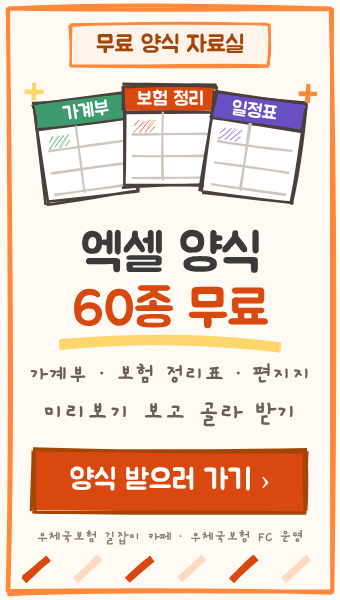
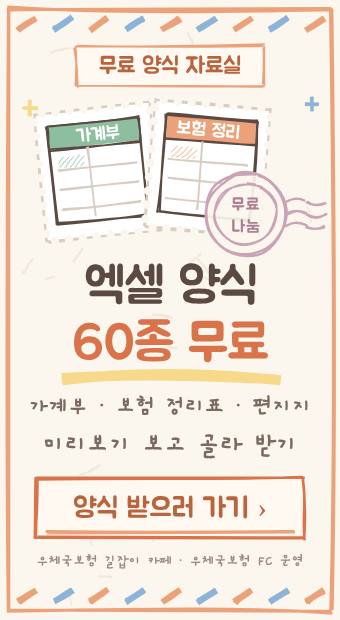
cafe: 블로그 위젯을 무료 엑셀 양식 하나로 — 우표·소인·항공우편 줄무늬로 은은한 우체국 감성
Claude-Session: https://claude.ai/code/session_01NDkHExbD7sg1GRU5d1kqZi

diff --git a/cafe/scripts/blog-widget.html b/cafe/scripts/blog-widget.html
@@ -1,99 +1,118 @@
 <!doctype html>
 <html lang="ko"><head><meta charset="utf-8">
-<!-- 네이버 블로그 사이드바 위젯 이미지 틀(가로 170px 표시 · 2배 크기 340px로 그림) — make-blog-widget.py 가 render(kind) 를 부릅니다.
-     선은 rough.js(MIT), 글씨는 Jua·Gaegu(OFL). 귀여움은 캐릭터·하트 대신 손그림 선·빗금·파스텔 색감으로만. -->
+<!-- 네이버 블로그 사이드바 위젯 — 무료 엑셀 양식(가로 170px 표시 · 2배 크기 340px로 그림). make-blog-widget.py 가 render() 를 부릅니다.
+     우체국 감성은 우표 톱니·소인·항공우편 줄무늬로 은은하게, 귀여움은 캐릭터·하트 대신 손그림 선·빗금·한지 결·톤 다운 파스텔로만.
+     선은 rough.js(MIT), 글씨는 Jua·Gaegu(OFL). 우체국 로고·상징은 쓰지 않습니다. -->
 <style>
 @font-face{font-family:Jua;src:url(../assets/fonts/jua-korean-400-normal.woff2)}
 @font-face{font-family:Gaegu;src:url(../assets/fonts/gaegu-korean-700-normal.woff2)}
 *{margin:0;padding:0;box-sizing:border-box}
-body{width:340px;overflow:hidden;background:#FFFBF4}
+body{width:340px;overflow:hidden;background:#FBF6EE}
 #c{position:absolute;left:0;top:0}
 .t{position:absolute;white-space:nowrap;transform:translateX(-50%)}
-.chip{font-family:Jua;font-size:24px;color:#A34506}
-.h1{font-family:Jua;font-size:52px;color:#3A3A3A;letter-spacing:-1px;line-height:1}
-.h2{font-family:Jua;font-size:52px;color:#D9480F;letter-spacing:-1px;line-height:1}
-.g{font-family:Gaegu;font-size:27px;color:#6B5E57}
-.big{font-family:Jua;font-size:40px;color:#D9480F;line-height:1}
-.mid{font-family:Jua;font-size:30px;color:#3A3A3A}
-.btn{font-family:Jua;font-size:29px;color:#fff}
-.tiny{font-family:Gaegu;font-size:21px;color:#8A7D75}
-.lab{font-family:Jua;font-size:19px;color:#fff}
-.cell{font-family:Gaegu;font-size:19px;color:#4A3F3A}
+.chip{font-family:Jua;font-size:23px;color:#B8653F}
+.h1{font-family:Jua;font-size:50px;color:#5A4A42;letter-spacing:-1px;line-height:1}
+.h2{font-family:Jua;font-size:52px;color:#D9734A;letter-spacing:-1px;line-height:1}
+.g{font-family:Gaegu;font-size:27px;color:#7A6A61}
+.btn{font-family:Jua;font-size:28px;color:#B8653F}
+.tiny{font-family:Gaegu;font-size:21px;color:#9A8B82}
+.lab{font-family:Jua;font-size:18px;color:#fff}
+.pm{font-family:Jua;font-size:17px;color:#B07F95;letter-spacing:1px}
 </style></head>
-<body><svg id="c" width="340" height="700" xmlns="http://www.w3.org/2000/svg"></svg>
+<body><svg id="c" width="340" height="620" xmlns="http://www.w3.org/2000/svg"></svg>
 <script src="../assets/vendor/rough.js"></script>
 <script>
 const svg = document.getElementById("c"), rc = rough.svg(svg);
-const P = { ink: "#4A3F3A", orange: "#FF883A", red: "#D9480F", peach: "#FFDAC1", cream: "#FFF4EC", yellow: "#FFD66B", green: "#3E9B6E", blue: "#2F86C9", purple: "#6A4FC4" };
+// 톤 다운 우체국 주황 + 한지 크림 + 연한 파스텔
+const C = { ink: "#5A4A42", line: "#D8CDC2", apricot: "#EBA27A", orange: "#D9734A", deep: "#B8653F", sage: "#8DBF9F", sky: "#8DB3D6", plum: "#C9A3B6", paper: "#FBF6EE", cream: "#FFF9F1", butter: "#F6D98B" };
 const add = (n) => (svg.appendChild(n), n);
 const T = (cls, s, x, y) => { const d = document.createElement("div"); d.className = "t " + cls; d.textContent = s; d.style.left = x + "px"; d.style.top = y + "px"; document.body.appendChild(d); return d; };
 const fit = (el, max) => { let f = parseFloat(getComputedStyle(el).fontSize); while (el.getBoundingClientRect().width > max && f > 12) { f -= 1; el.style.fontSize = f + "px"; } };
-const sparkle = (x, y, r, c) => { add(rc.line(x - r, y, x + r, y, { stroke: c, strokeWidth: 4, roughness: 0.6 })); add(rc.line(x, y - r, x, y + r, { stroke: c, strokeWidth: 4, roughness: 0.6 })); };
+const sparkle = (x, y, r, c) => { add(rc.line(x - r, y, x + r, y, { stroke: c, strokeWidth: 3.5, roughness: 0.6 })); add(rc.line(x, y - r, x, y + r, { stroke: c, strokeWidth: 3.5, roughness: 0.6 })); };
 
-// 손그림 양식 카드 한 장(엑셀 표 모양) — 색 띠 + 줄 + 이름표
-function sheetCard(x, y, w, h, color, label, rot) {
+// 한지 결: 아주 옅은 짧은 섬유 선
+function hanji(H) {
+  let s = 7;
+  const rnd = () => ((s = (s * 9301 + 49297) % 233280) / 233280);
+  for (let i = 0; i < 26; i++) {
+    const x = 18 + rnd() * 304, y = 18 + rnd() * (H - 36), a = rnd() * Math.PI, l = 8 + rnd() * 14;
+    add(rc.line(x, y, x + Math.cos(a) * l, y + Math.sin(a) * l, { stroke: "#F1E8DC", strokeWidth: 1.4, roughness: 1.2 }));
+  }
+}
+
+// 우표: 톱니 가장자리(반원 홈) + 안쪽 양식 카드
+function stamp(x, y, w, h, rot) {
   const g = document.createElementNS("http://www.w3.org/2000/svg", "g");
   g.setAttribute("transform", `rotate(${rot} ${x + w / 2} ${y + h / 2})`);
   const put = (n) => g.appendChild(n);
-  put(rc.rectangle(x, y, w, h, { fill: "#fff", fillStyle: "solid", stroke: P.ink, strokeWidth: 2.5, roughness: 1.2 }));
-  put(rc.rectangle(x, y, w, 26, { fill: color, fillStyle: "solid", stroke: P.ink, strokeWidth: 2, roughness: 0.9 }));
-  for (let k = 1; k <= 3; k++) put(rc.line(x + 8, y + 26 + k * 22, x + w - 8, y + 26 + k * 22, { stroke: "#CFC6BD", strokeWidth: 2, roughness: 0.6 }));
-  put(rc.line(x + w * 0.42, y + 26, x + w * 0.42, y + h - 6, { stroke: "#CFC6BD", strokeWidth: 2, roughness: 0.6 }));
-  put(rc.rectangle(x + 10, y + 34, w * 0.42 - 18, 12, { fill: color, fillStyle: "hachure", hachureGap: 4, stroke: "none" }));
+  put(rc.rectangle(x, y, w, h, { fill: "#fff", fillStyle: "solid", stroke: C.line, strokeWidth: 2, roughness: 0.8 }));
   svg.appendChild(g);
-  const l = T("lab", label, x + w / 2, y + 2); l.style.transform = `translateX(-50%) rotate(${rot}deg)`; l.style.transformOrigin = "50% 50%";
+  // 톱니(바탕색 작은 원)
+  const holes = document.createElementNS("http://www.w3.org/2000/svg", "g");
+  holes.setAttribute("transform", g.getAttribute("transform"));
+  const hole = (cx, cy) => { const c = document.createElementNS("http://www.w3.org/2000/svg", "circle"); c.setAttribute("cx", cx); c.setAttribute("cy", cy); c.setAttribute("r", 4.2); c.setAttribute("fill", C.paper); holes.appendChild(c); };
+  for (let i = 8; i < w; i += 14) { hole(x + i, y); hole(x + i, y + h); }
+  for (let i = 8; i < h; i += 14) { hole(x, y + i); hole(x + w, y + i); }
+  svg.appendChild(holes);
+  return g;
 }
 
-function frame(H) {
+// 우표 안의 손그림 엑셀 카드(색 띠 + 줄 + 이름표)
+function sheetIn(g, x, y, w, h, color) {
+  const put = (n) => g.appendChild(n);
+  put(rc.rectangle(x, y, w, h, { fill: "#fff", fillStyle: "solid", stroke: C.ink, strokeWidth: 2, roughness: 1.1 }));
+  put(rc.rectangle(x, y, w, 24, { fill: color, fillStyle: "solid", stroke: C.ink, strokeWidth: 1.8, roughness: 0.8 }));
+  for (let k = 1; k <= 3; k++) put(rc.line(x + 6, y + 24 + k * 20, x + w - 6, y + 24 + k * 20, { stroke: C.line, strokeWidth: 1.8, roughness: 0.6 }));
+  put(rc.line(x + w * 0.42, y + 24, x + w * 0.42, y + h - 5, { stroke: C.line, strokeWidth: 1.8, roughness: 0.6 }));
+  put(rc.rectangle(x + 8, y + 31, w * 0.42 - 14, 11, { fill: color, fillStyle: "hachure", hachureGap: 4, stroke: "none" }));
+}
+function label(s, cx, y, rot) { const l = T("lab", s, cx, y); l.style.transform = `translateX(-50%) rotate(${rot}deg)`; }
+
+// 소인: 두 겹 원 + 물결선(우체국 소인 느낌, 글자는 '무료 나눔')
+function postmark(cx, cy) {
+  add(rc.circle(cx, cy, 78, { fill: "rgba(251,246,238,0.92)", fillStyle: "solid", stroke: C.plum, strokeWidth: 2.5, roughness: 1.1 }));
+  add(rc.circle(cx, cy, 62, { stroke: C.plum, strokeWidth: 1.8, roughness: 1.1 }));
+  for (let k = 0; k < 3; k++) {
+    const y = cy - 12 + k * 12;
+    add(rc.path(`M${cx + 40} ${y} q10 -6 20 0 t20 0`, { stroke: C.plum, strokeWidth: 2.2, roughness: 0.7 }));
+  }
+  T("pm", "무료", cx, cy - 20); T("pm", "나눔", cx, cy + 2);
+}
+
+function render() {
+  const H = 620;
   svg.setAttribute("height", H); document.body.style.height = H + "px";
-  add(rc.rectangle(8, 8, 324, H - 16, { stroke: P.orange, strokeWidth: 4, roughness: 1.8 }));
-  for (let i = 0; i < 6; i++) { const x = 24 + i * 52; add(rc.line(x, H - 20, x + 24, H - 42, { stroke: i % 2 ? P.peach : P.red, strokeWidth: 7, roughness: 0.7 })); }
-}
-function chip(s, y) {
-  const c = T("chip", s, 170, y); const w = c.getBoundingClientRect().width;
-  add(rc.rectangle(170 - w / 2 - 16, y - 6, w + 32, 42, { fill: P.cream, fillStyle: "solid", stroke: P.orange, strokeWidth: 2.5 }));
+  hanji(H);
+  add(rc.rectangle(9, 9, 322, H - 18, { stroke: C.apricot, strokeWidth: 3, roughness: 1.6 }));
+  // 항공우편 줄무늬(은은하게) — 위·아래
+  for (let i = 0; i < 9; i++) {
+    const x = 18 + i * 36, col = i % 2 ? C.sky : C.apricot;
+    add(rc.line(x, 30, x + 18, 18, { stroke: col, strokeWidth: 6, roughness: 0.6 }));
+    add(rc.line(x, H - 18, x + 18, H - 30, { stroke: col, strokeWidth: 6, roughness: 0.6 }));
+  }
+  // 칩
+  const ch = T("chip", "무료 양식 자료실", 170, 52); const cw = ch.getBoundingClientRect().width;
+  add(rc.rectangle(170 - cw / 2 - 14, 46, cw + 28, 40, { fill: C.cream, fillStyle: "solid", stroke: C.apricot, strokeWidth: 2 }));
   svg.appendChild(svg.lastChild);
+  // 우표 두 장 + 소인
+  const s1 = stamp(40, 108, 116, 128, -6); sheetIn(s1, 52, 122, 92, 98, C.sage);
+  const s2 = stamp(150, 104, 116, 128, 5); sheetIn(s2, 162, 118, 92, 98, C.apricot);
+  label("가계부", 98, 124, -6); label("보험 정리", 208, 120, 5);
+  postmark(246, 214);
+  sparkle(30, 108, 8, C.butter); sparkle(312, 104, 7, C.sky);
+  // 제목
+  T("h1", "엑셀 양식", 170, 262);
+  const b = T("h2", "60종 무료", 170, 318);
+  const bw = b.getBoundingClientRect().width + 14;
+  add(rc.path(`M${170 - bw / 2} 378 Q170 370 ${170 + bw / 2} 380`, { stroke: C.butter, strokeWidth: 10, roughness: 1.3 }));
+  const g1 = T("g", "가계부 · 보험 정리표 · 편지지", 170, 392); fit(g1, 296);
+  T("g", "미리보기 보고 골라 받기", 170, 428);
+  // 단추(크림 바탕 + 살구 테두리)
+  add(rc.rectangle(36, 478, 268, 60, { fill: C.cream, fillStyle: "solid", stroke: C.orange, strokeWidth: 2.6, roughness: 1.3 }));
+  add(rc.line(46, 532, 294, 532, { stroke: C.apricot, strokeWidth: 3, roughness: 0.8 }));
+  T("btn", "양식 받으러 가기 ›", 170, 492);
+  const t = T("tiny", "우체국보험 길잡이 카페 · 우체국보험 FC 운영", 170, 552); fit(t, 292);
+  return true;
 }
-function button(s, y) {
-  add(rc.rectangle(34, y, 272, 62, { fill: P.red, fillStyle: "solid", stroke: "#A34506", strokeWidth: 3, roughness: 1.4 }));
-  T("btn", s, 170, y + 13);
-}
-function under(y, w) { add(rc.path(`M${170 - w / 2} ${y} Q170 ${y - 8} ${170 + w / 2} ${y + 2}`, { stroke: P.yellow, strokeWidth: 10, roughness: 1.4 })); }
-
-// A. 카페 브랜드 + 무료 양식 미끼(추천) — 340×700 → 블로그에 170×350
-function guide() {
-  frame(700);
-  chip("네이버 카페", 30);
-  under(202, 200);
-  T("h1", "우체국보험", 170, 92); T("h2", "길잡이", 170, 146);
-  T("g", "보험 공부 · 청구 방법 · 내 보험 관리", 170, 214).id = "g1"; fit(document.getElementById("g1"), 300);
-  sheetCard(40, 262, 92, 100, P.green, "가계부", -8);
-  sheetCard(124, 250, 92, 100, P.red, "보험 정리", 0);
-  sheetCard(208, 262, 92, 100, P.blue, "편지지", 8);
-  sparkle(36, 250, 9, P.yellow); sparkle(306, 252, 9, P.orange);
-  T("mid", "무료 엑셀 양식", 170, 392);
-  const b = T("big", "60종 나눔", 170, 432);
-  under(482, b.getBoundingClientRect().width + 20);
-  T("g", "받아서 바로 쓰는 살림·보험 양식", 170, 500).id = "g2"; fit(document.getElementById("g2"), 300);
-  button("카페 구경 가기 ›", 552);
-  T("tiny", "우체국보험 FC가 운영하는 카페예요", 170, 628).id = "g3"; fit(document.getElementById("g3"), 296);
-}
-
-// B. 무료 엑셀 양식 전용 — 340×600 → 블로그에 170×300
-function forms() {
-  frame(600);
-  chip("무료 양식 자료실", 30);
-  sheetCard(40, 98, 92, 100, P.green, "가계부", -8);
-  sheetCard(124, 86, 92, 100, P.red, "보험 정리", 0);
-  sheetCard(208, 98, 92, 100, P.purple, "일정표", 8);
-  sparkle(34, 92, 9, P.yellow); sparkle(308, 94, 9, P.orange);
-  T("h1", "엑셀 양식", 170, 228);
-  const b = T("h2", "60종 무료", 170, 284);
-  under(344, b.getBoundingClientRect().width + 16);
-  T("g", "가계부 · 보험 정리표 · 편지지", 170, 360).id = "g1"; fit(document.getElementById("g1"), 300);
-  T("g", "미리보기 보고 골라 받기", 170, 396);
-  button("양식 받으러 가기 ›", 450);
-  T("tiny", "우체국보험 길잡이 카페 · 우체국보험 FC 운영", 170, 528).id = "g3"; fit(document.getElementById("g3"), 296);
-}
-window.render = (k) => (k === "forms" ? forms() : guide(), true);
+window.render = render;
 </script></body></html>

diff --git a/cafe/scripts/make-blog-widget.py b/cafe/scripts/make-blog-widget.py
@@ -1,8 +1,7 @@
 """네이버 블로그 사이드바 위젯 이미지 — python3 cafe/scripts/make-blog-widget.py
 
 결과(홈페이지 정적 파일로 배포되어 위젯 코드의 이미지 주소가 됨):
-  public/widget/cafe-guide.png  (340×700, 블로그에는 170×350으로 표시) — 우체국보험 길잡이 카페 + 무료 양식 60종
-  public/widget/cafe-forms.png  (340×600, 블로그에는 170×300으로 표시) — 무료 엑셀 양식 전용
+  public/widget/cafe-forms.png  (340×620, 블로그에는 170×310으로 표시) — 무료 엑셀 양식 60종(우체국 감성·은은한 손그림)
   cafe/out/블로그_위젯_코드.txt — 위젯 직접 등록 창에 붙여 넣을 코드
 """
 from pathlib import Path
@@ -14,8 +13,7 @@ TEMPLATE = (ROOT / "cafe/scripts/blog-widget.html").as_uri()
 SITE = "https://korea-bohum.vercel.app"
 CAFE = "https://cafe.naver.com/304050modu"
 WIDGETS = [
-    ("guide", "cafe-guide.png", 700, "우체국보험 길잡이 카페", "우체국보험 길잡이 네이버 카페 - 보험 공부, 청구 방법, 무료 엑셀 양식 60종"),
-    ("forms", "cafe-forms.png", 600, "무료 엑셀 양식 60종", "우체국보험 길잡이 카페 무료 엑셀 양식 60종 - 가계부, 보험 정리표, 편지지"),
+    ("forms", "cafe-forms.png", 620, "무료 엑셀 양식 60종", "우체국보험 길잡이 카페 무료 엑셀 양식 60종 - 가계부, 보험 정리표, 편지지"),
 ]
 LIMIT = 2000  # 네이버 위젯 코드 글자 수 한도(영문 2천 자)
 
@@ -34,7 +32,7 @@ def main():
             pg = b.new_page(viewport={"width": 340, "height": h})
             pg.goto(TEMPLATE)
             pg.evaluate("document.fonts.ready")
-            pg.evaluate("k => render(k)", kind)
+            pg.evaluate("() => render()")
             pg.wait_for_timeout(200)
             over = pg.evaluate("()=>[...document.querySelectorAll('.t')].filter(e=>{const r=e.getBoundingClientRect();return r.left<12||r.right>328}).map(e=>e.textContent)")
             if over:
